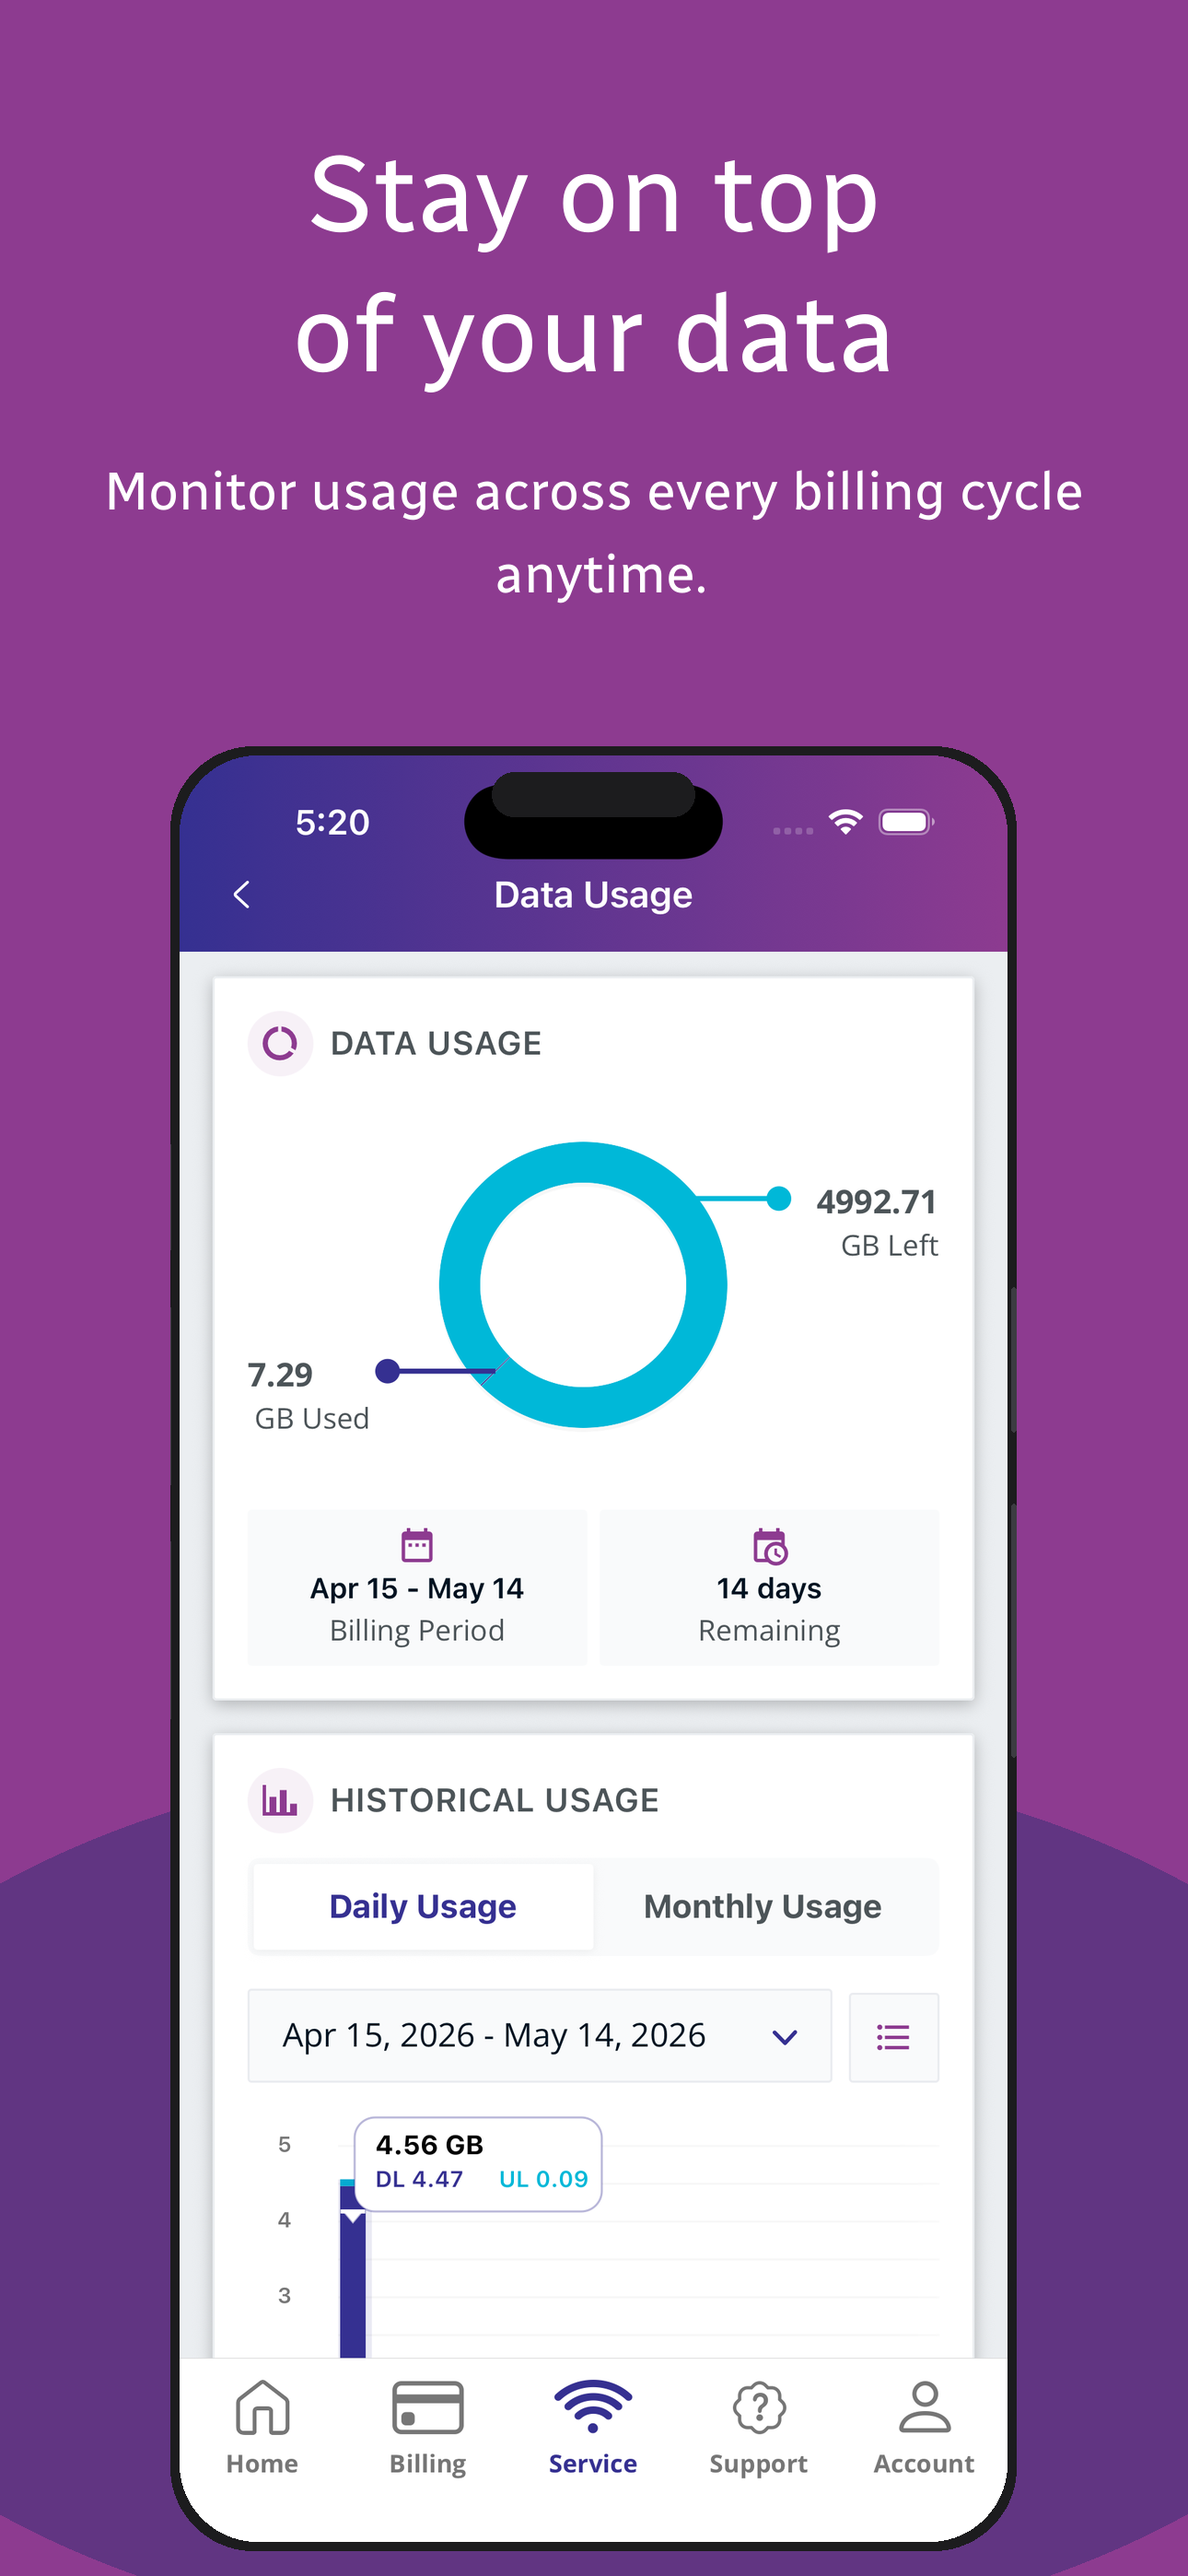
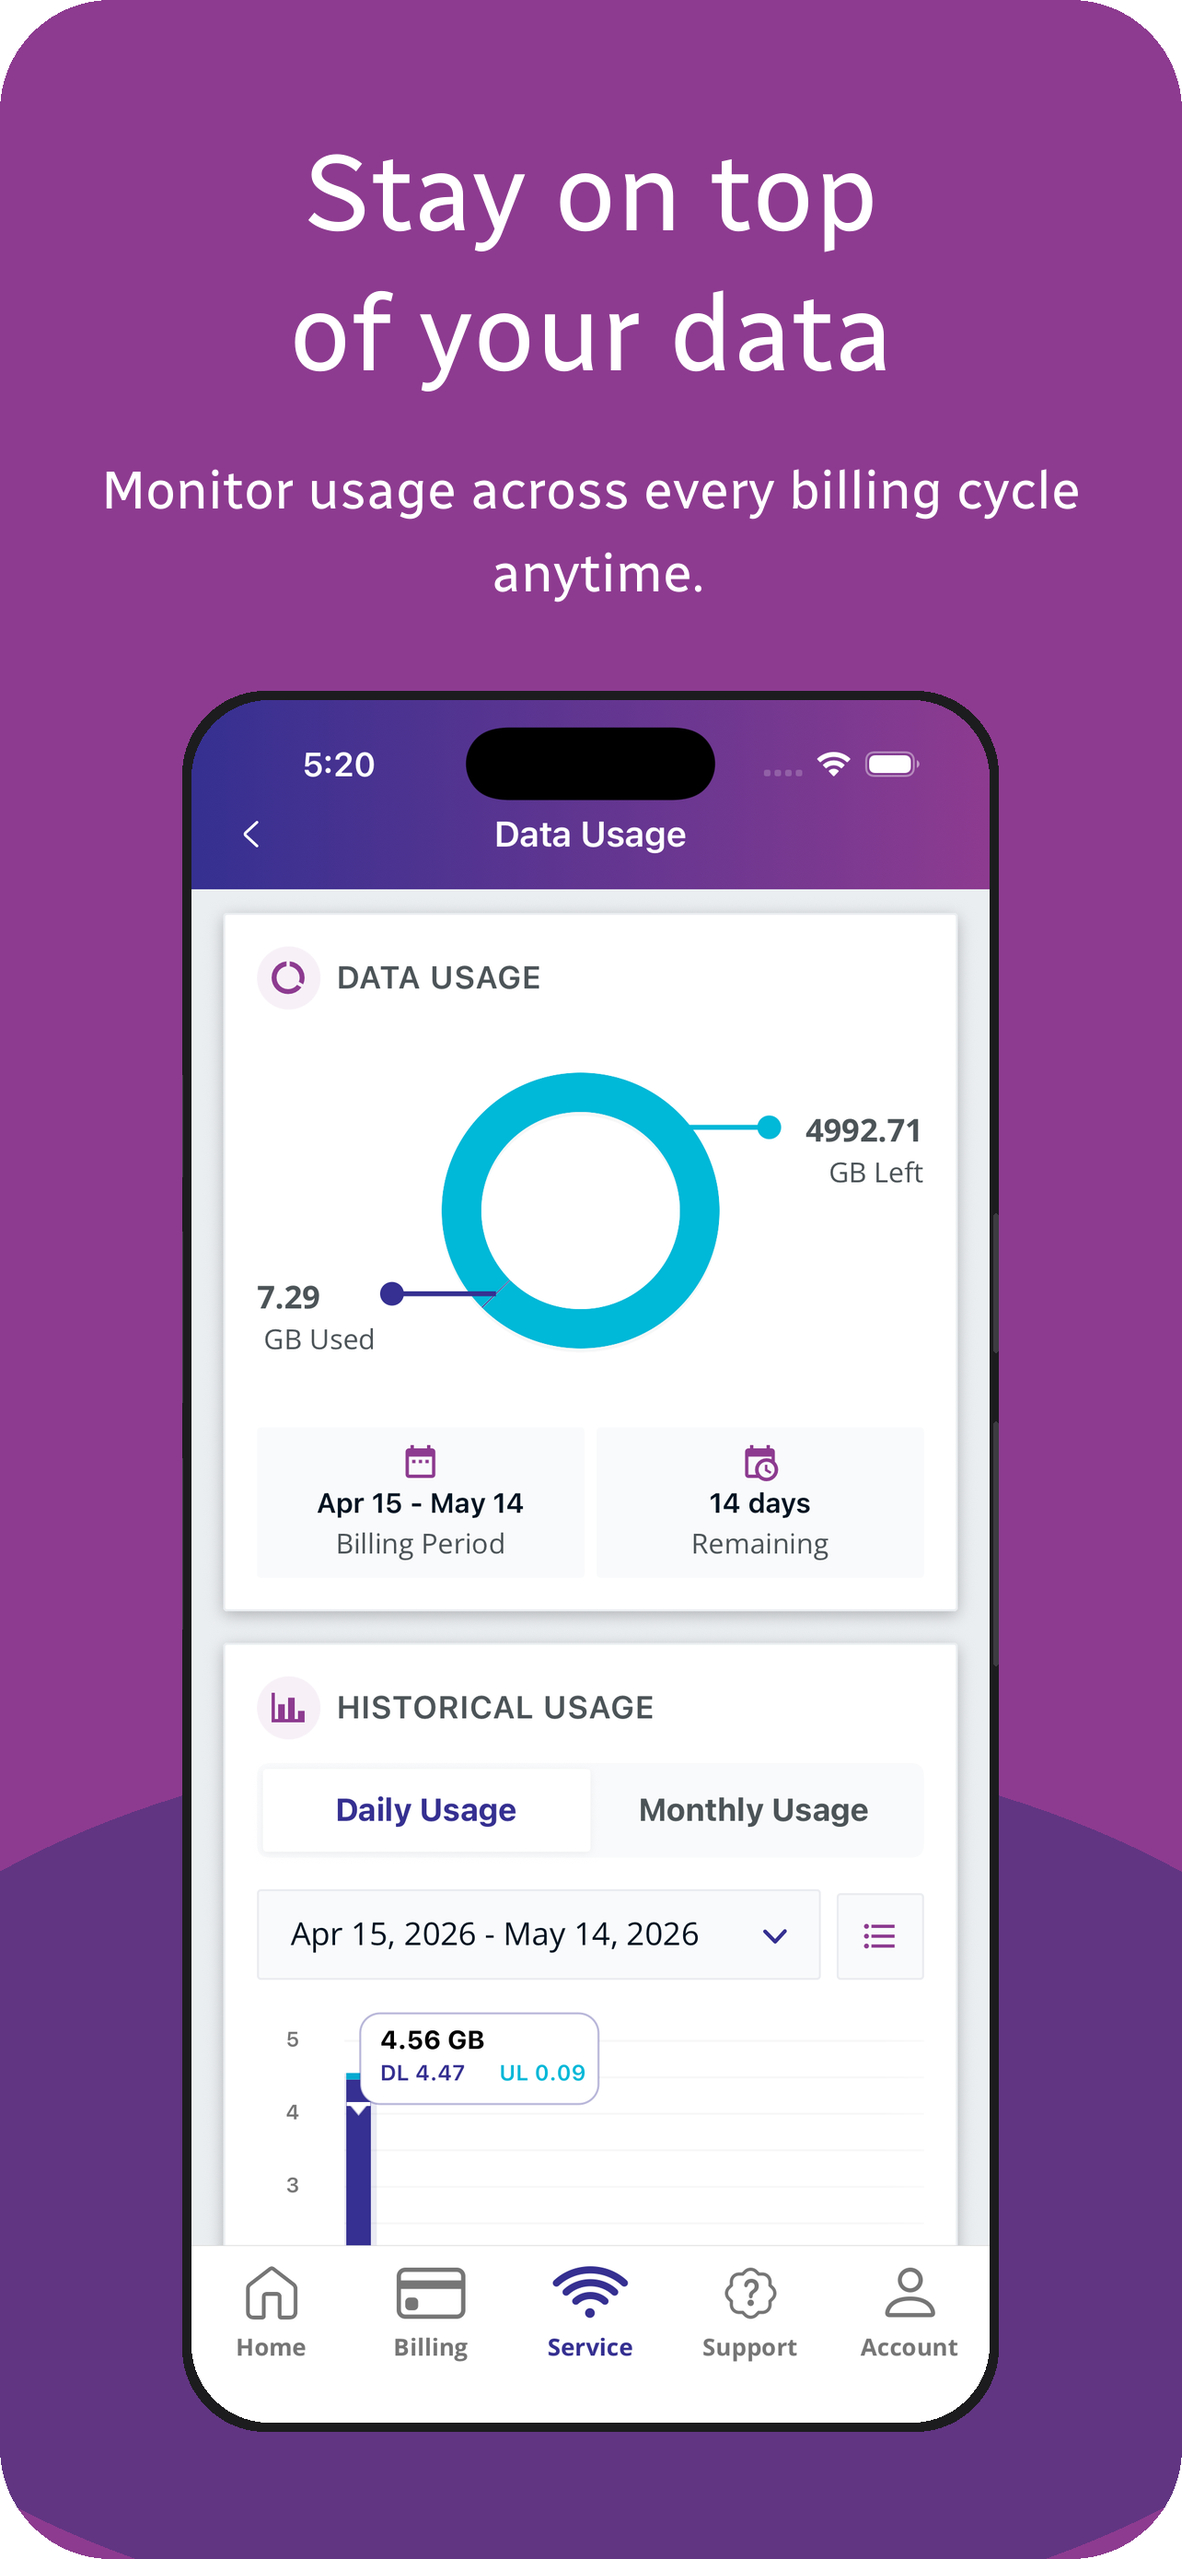
screenshots

diff --git a/screenshots/generate_promo.py b/screenshots/generate_promo.py
@@ -11,8 +11,8 @@ from PIL import Image, ImageDraw, ImageFont
 # ──────────────────────────────────────────────
 # Canvas & layout constants
 # ──────────────────────────────────────────────
-CANVAS_W = 1290   # App Store 6.7" width
-CANVAS_H = 2796   # App Store 6.7" height
+CANVAS_W = 1284   # App Store 6.1" width
+CANVAS_H = 2778   # App Store 6.1" height
 
 # Brand gradient colours
 GRAD_TOP    = (141, 59, 144)  # rgba(141, 59, 144, 1)
@@ -35,7 +35,7 @@ TEXT_BODY     = (255, 255, 255)
 LABEL_Y_FRAC    = 0.06   # label top edge as fraction of height
 HEADLINE_Y_FRAC = 0.05
 BODY_Y_FRAC     = 0.10
-PHONE_TOP_FRAC  = 0.29   # where phone frame starts (moved up)
+PHONE_TOP_FRAC  = 0.27   # where phone frame starts (moved up)
 
 # ──────────────────────────────────────────────
 # Screen definitions
@@ -216,15 +216,6 @@ def build_phone_frame(screenshot_path, frame_w, frame_h):
         screen_mask = rounded_rect_mask(sw, sh, FRAME_RADIUS - FRAME_BORDER + 4)
         frame.paste(shot, (sx, sy), screen_mask)
 
-    # Dynamic island pill (centred at top)
-    di_x = (frame_w - DYNAMIC_ISLAND_W) // 2
-    di_y = sy + 18
-    draw.rounded_rectangle(
-        [di_x, di_y, di_x + DYNAMIC_ISLAND_W, di_y + DYNAMIC_ISLAND_H],
-        radius=DYNAMIC_ISLAND_R,
-        fill=FRAME_COLOR + (255,),
-    )
-
     # Thin side buttons (right side)
     btn_x = frame_w - 6
     for by, bh in [(frame_h * 0.30, frame_h * 0.08), (frame_h * 0.42, frame_h * 0.14)]:
@@ -280,7 +271,7 @@ def generate(screen, script_dir):
 
     # 7. Phone frame
     phone_top  = int(CANVAS_H * PHONE_TOP_FRAC)
-    phone_h    = CANVAS_H - phone_top - int(CANVAS_H * 0.01)
+    phone_h    = CANVAS_H - phone_top - int(CANVAS_H * 0.05)
     # Slightly wider phone to increase visible screenshot width
     phone_w    = int(phone_h * (400 / 852))
     frame_img  = build_phone_frame(src, phone_w, phone_h)
@@ -288,8 +279,12 @@ def generate(screen, script_dir):
     px = (CANVAS_W - phone_w) // 2
     canvas.paste(frame_img, (px, phone_top), frame_img)
 
-    # 8. Save
-    canvas.convert("RGB").save(dest, "PNG", optimize=True)
+    # 8. Rounded corners on the canvas
+    canvas_mask = rounded_rect_mask(CANVAS_W, CANVAS_H, 120)
+    canvas.putalpha(canvas_mask)
+
+    # 9. Save
+    canvas.save(dest, "PNG", optimize=True)
     print(f"✓")
     return dest
 
